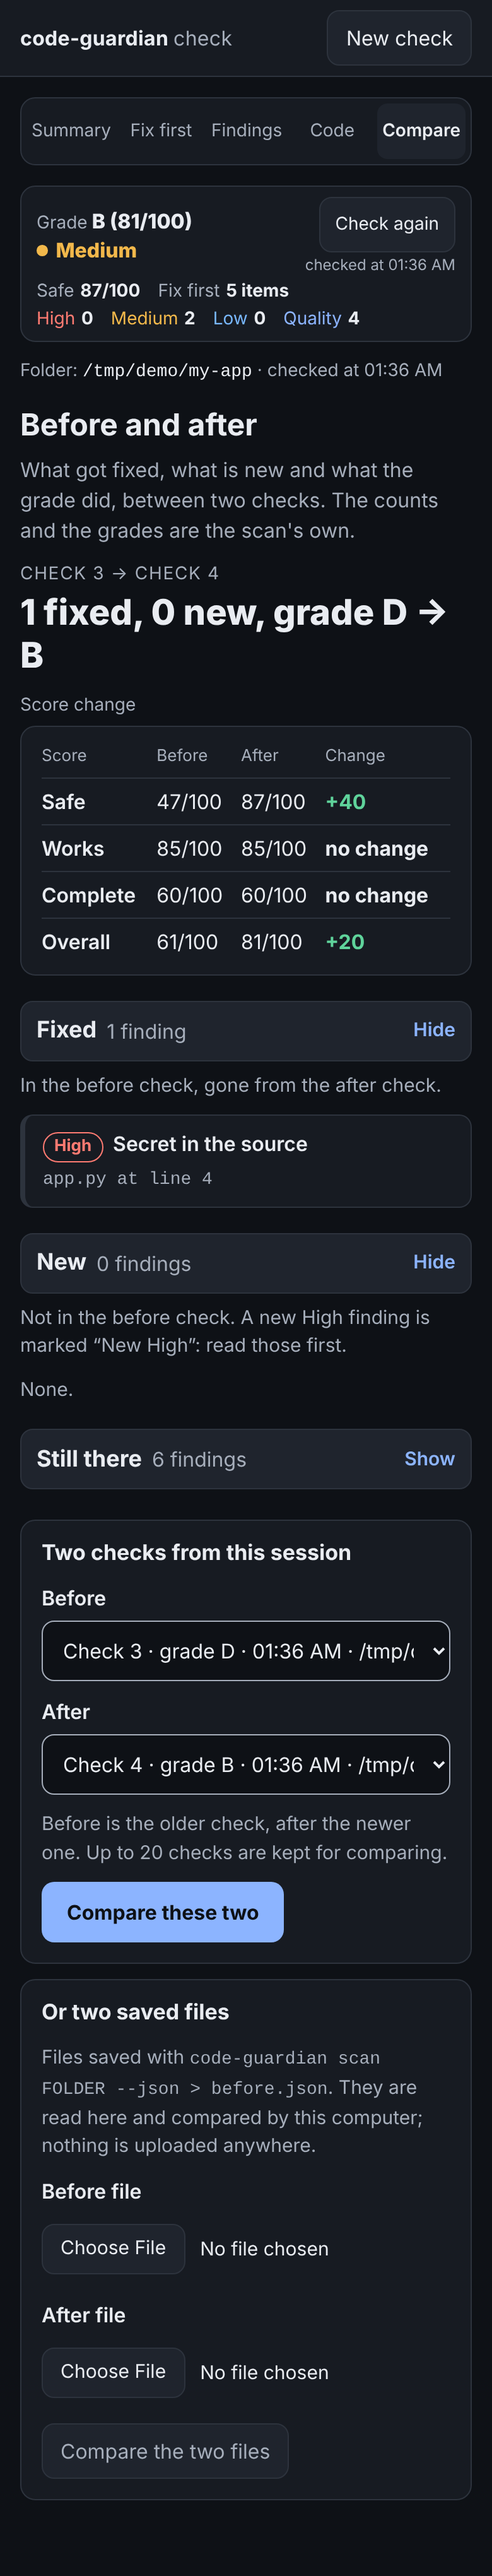
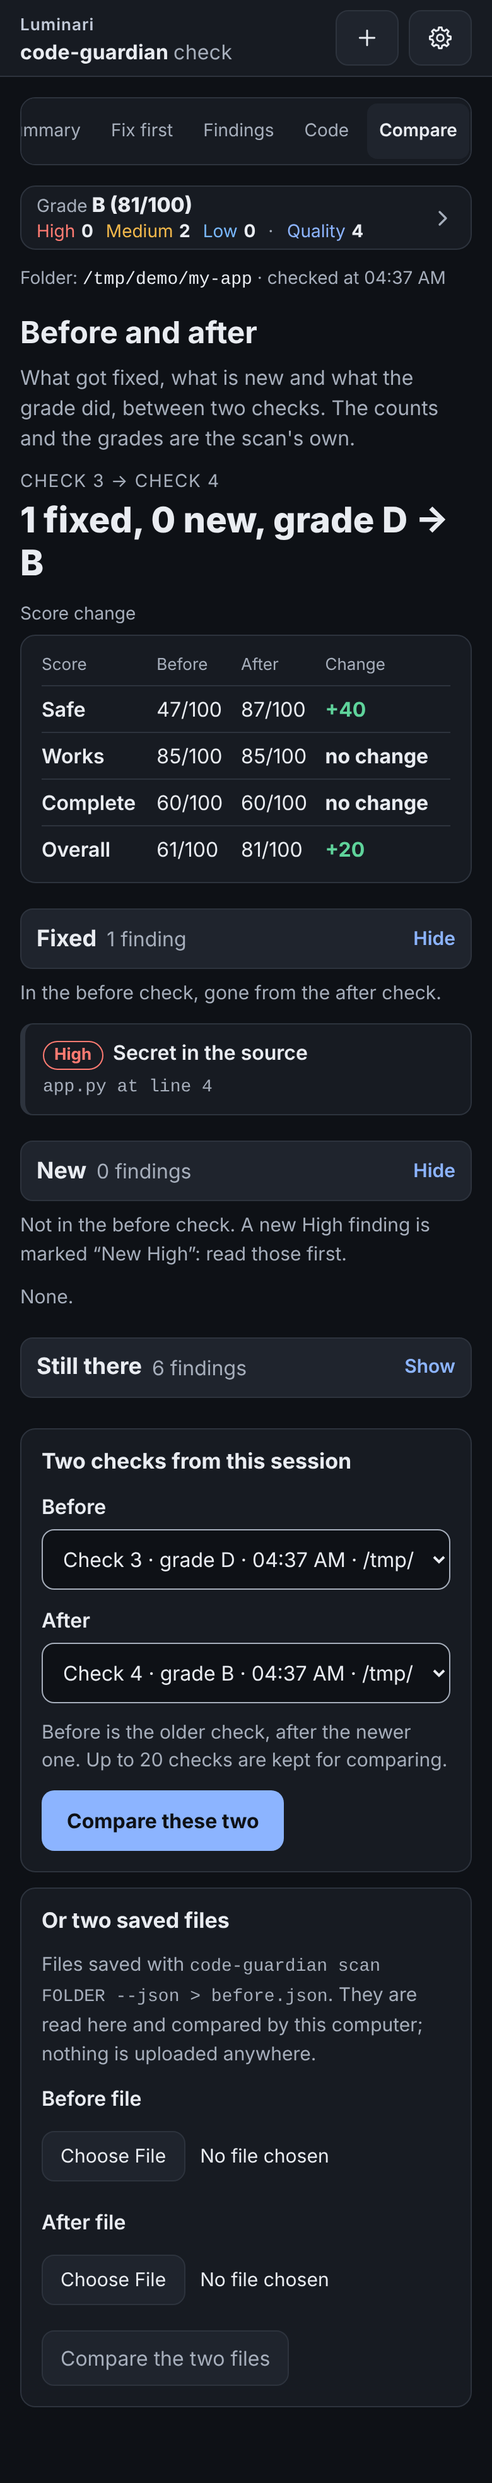
ui_screenshots: three sizes (390, 520, 1280), the mini rail shot; all 23 screenshots regenerated

diff --git a/tools/ui_screenshots.py b/tools/ui_screenshots.py
@@ -1,4 +1,4 @@
-"""Capture the screenshots of `code-guardian ui` in docs/screenshots/ (plan P76 S3, P78 S1).
+"""Capture the screenshots of `code-guardian ui` in docs/screenshots/ (plan P76 S3, P78 S1, S2).
 
 Development only: Playwright is not a dependency or an extra of the package, so install it into a scratch
 environment first (pip install playwright, plus a Chromium it can find). The scanned folder is visible on the page,
@@ -6,10 +6,13 @@ so the projects are copied into a neutral folder (default /tmp/demo) and only th
 
     python tools/ui_screenshots.py [--out docs/screenshots] [--root /tmp/demo]
 
-Writes {open,result,fixfirst,findings,code,diff,settings,result_light}_{390x844,1280x800}.png. result_390x844 is a JavaScript-only project, so
-its first screen shows the PARTIAL banner, the grey "No known risks found" and the "partial check" flag; every other
+Writes {open,result,fixfirst,findings,code,diff}_{390x844,520x900,1280x800}.png (a phone, the narrow side window and a
+full screen), rail_mini_1280x800.png (the result with the summary column shrunk to the slim icon rail) and, at 390 and
+1280 only, {settings,result_light}_<size>.png. result_390x844 and result_520x900 are a JavaScript-only project, so
+the first screen shows the PARTIAL banner, the grey "No known risks found" and the "partial check" flag; every other
 screen is a copy of tests/fixtures/risky_repo, whose Fix first screen shows the scan's notes above the list and whose
-Code screen shows one inline note opened. Fails if any screen scrolls sideways.
+Code screen shows one inline note opened. Below 600 px the summary is a collapsed strip; the tool opens it before it
+clicks "Check again" and closes it again. Fails if any screen scrolls sideways.
 
 The Code screens also show a selection, the filled start and end fields and an answer in the explanation panel. The
 answer comes from a stub model started here, a tiny HTTP server on the loopback address that returns one fixed
@@ -37,7 +40,7 @@ sys.path.insert(0, str(ROOT))
 
 from code_guardian import ui  # noqa: E402
 
-SIZES = ((390, 844, 2), (1280, 800, 1))  # width, height, device scale
+SIZES = ((390, 844, 2), (520, 900, 1), (1280, 800, 1))  # width, height, device scale
 JS_FILES = {
     "index.js": "const http = require(\"http\");\n\n"
                 "http.createServer((req, res) => res.end(\"hello\")).listen(3000);\n",
@@ -119,9 +122,14 @@ def compare(page, out, app, size):
     page.click("#new-check")
     check(page, app)
     (app / "app.py").write_text(APP_AFTER, encoding="utf-8")
+    phone = page.get_attribute("#rail-toggle", "aria-expanded") == "false"  # the strip starts collapsed on a phone
+    if phone:
+        page.click("#rail-toggle")
     page.click("#check-again")
     page.wait_for_selector("#check-again:not([disabled])", timeout=60000)
     page.wait_for_selector("#rail-when:has-text('checked at')", timeout=10000)
+    if phone:
+        page.click("#rail-toggle")
     page.click("#tabs button[data-screen=compare]")
     page.wait_for_selector("#compare-result:not([hidden])", timeout=30000)
     shoot(page, out, "diff_%s.png" % size)
@@ -159,6 +167,11 @@ def capture(browser, out, risky, js, app, width, height, scale):
             page.click("#new-check")
             check(page, risky)
             shoot(page, out, "result_%s.png" % size)
+            page.click("#rail-toggle")  # the column shrinks to the slim icon rail, and comes back
+            page.wait_for_selector("#rail-toggle[aria-expanded=false]")
+            shoot(page, out, "rail_mini_%s.png" % size)
+            page.click("#rail-toggle")
+            page.wait_for_selector("#rail-toggle[aria-expanded=true]")
         page.click("#tabs button[data-screen=fixfirst]")
         shoot(page, out, "fixfirst_%s.png" % size)
         page.click("#tabs button[data-screen=findings]")
@@ -184,7 +197,8 @@ def capture(browser, out, risky, js, app, width, height, scale):
         page.click("#new-check")
         page.wait_for_selector("#recent li")
         shoot(page, out, "open_%s.png" % size)
-        settings_and_light(page, out, risky, size)
+        if width != 520:  # the Settings panel and the light palette are shown at the two older sizes only
+            settings_and_light(page, out, risky, size)
         context.close()
     finally:
         server.shutdown()
